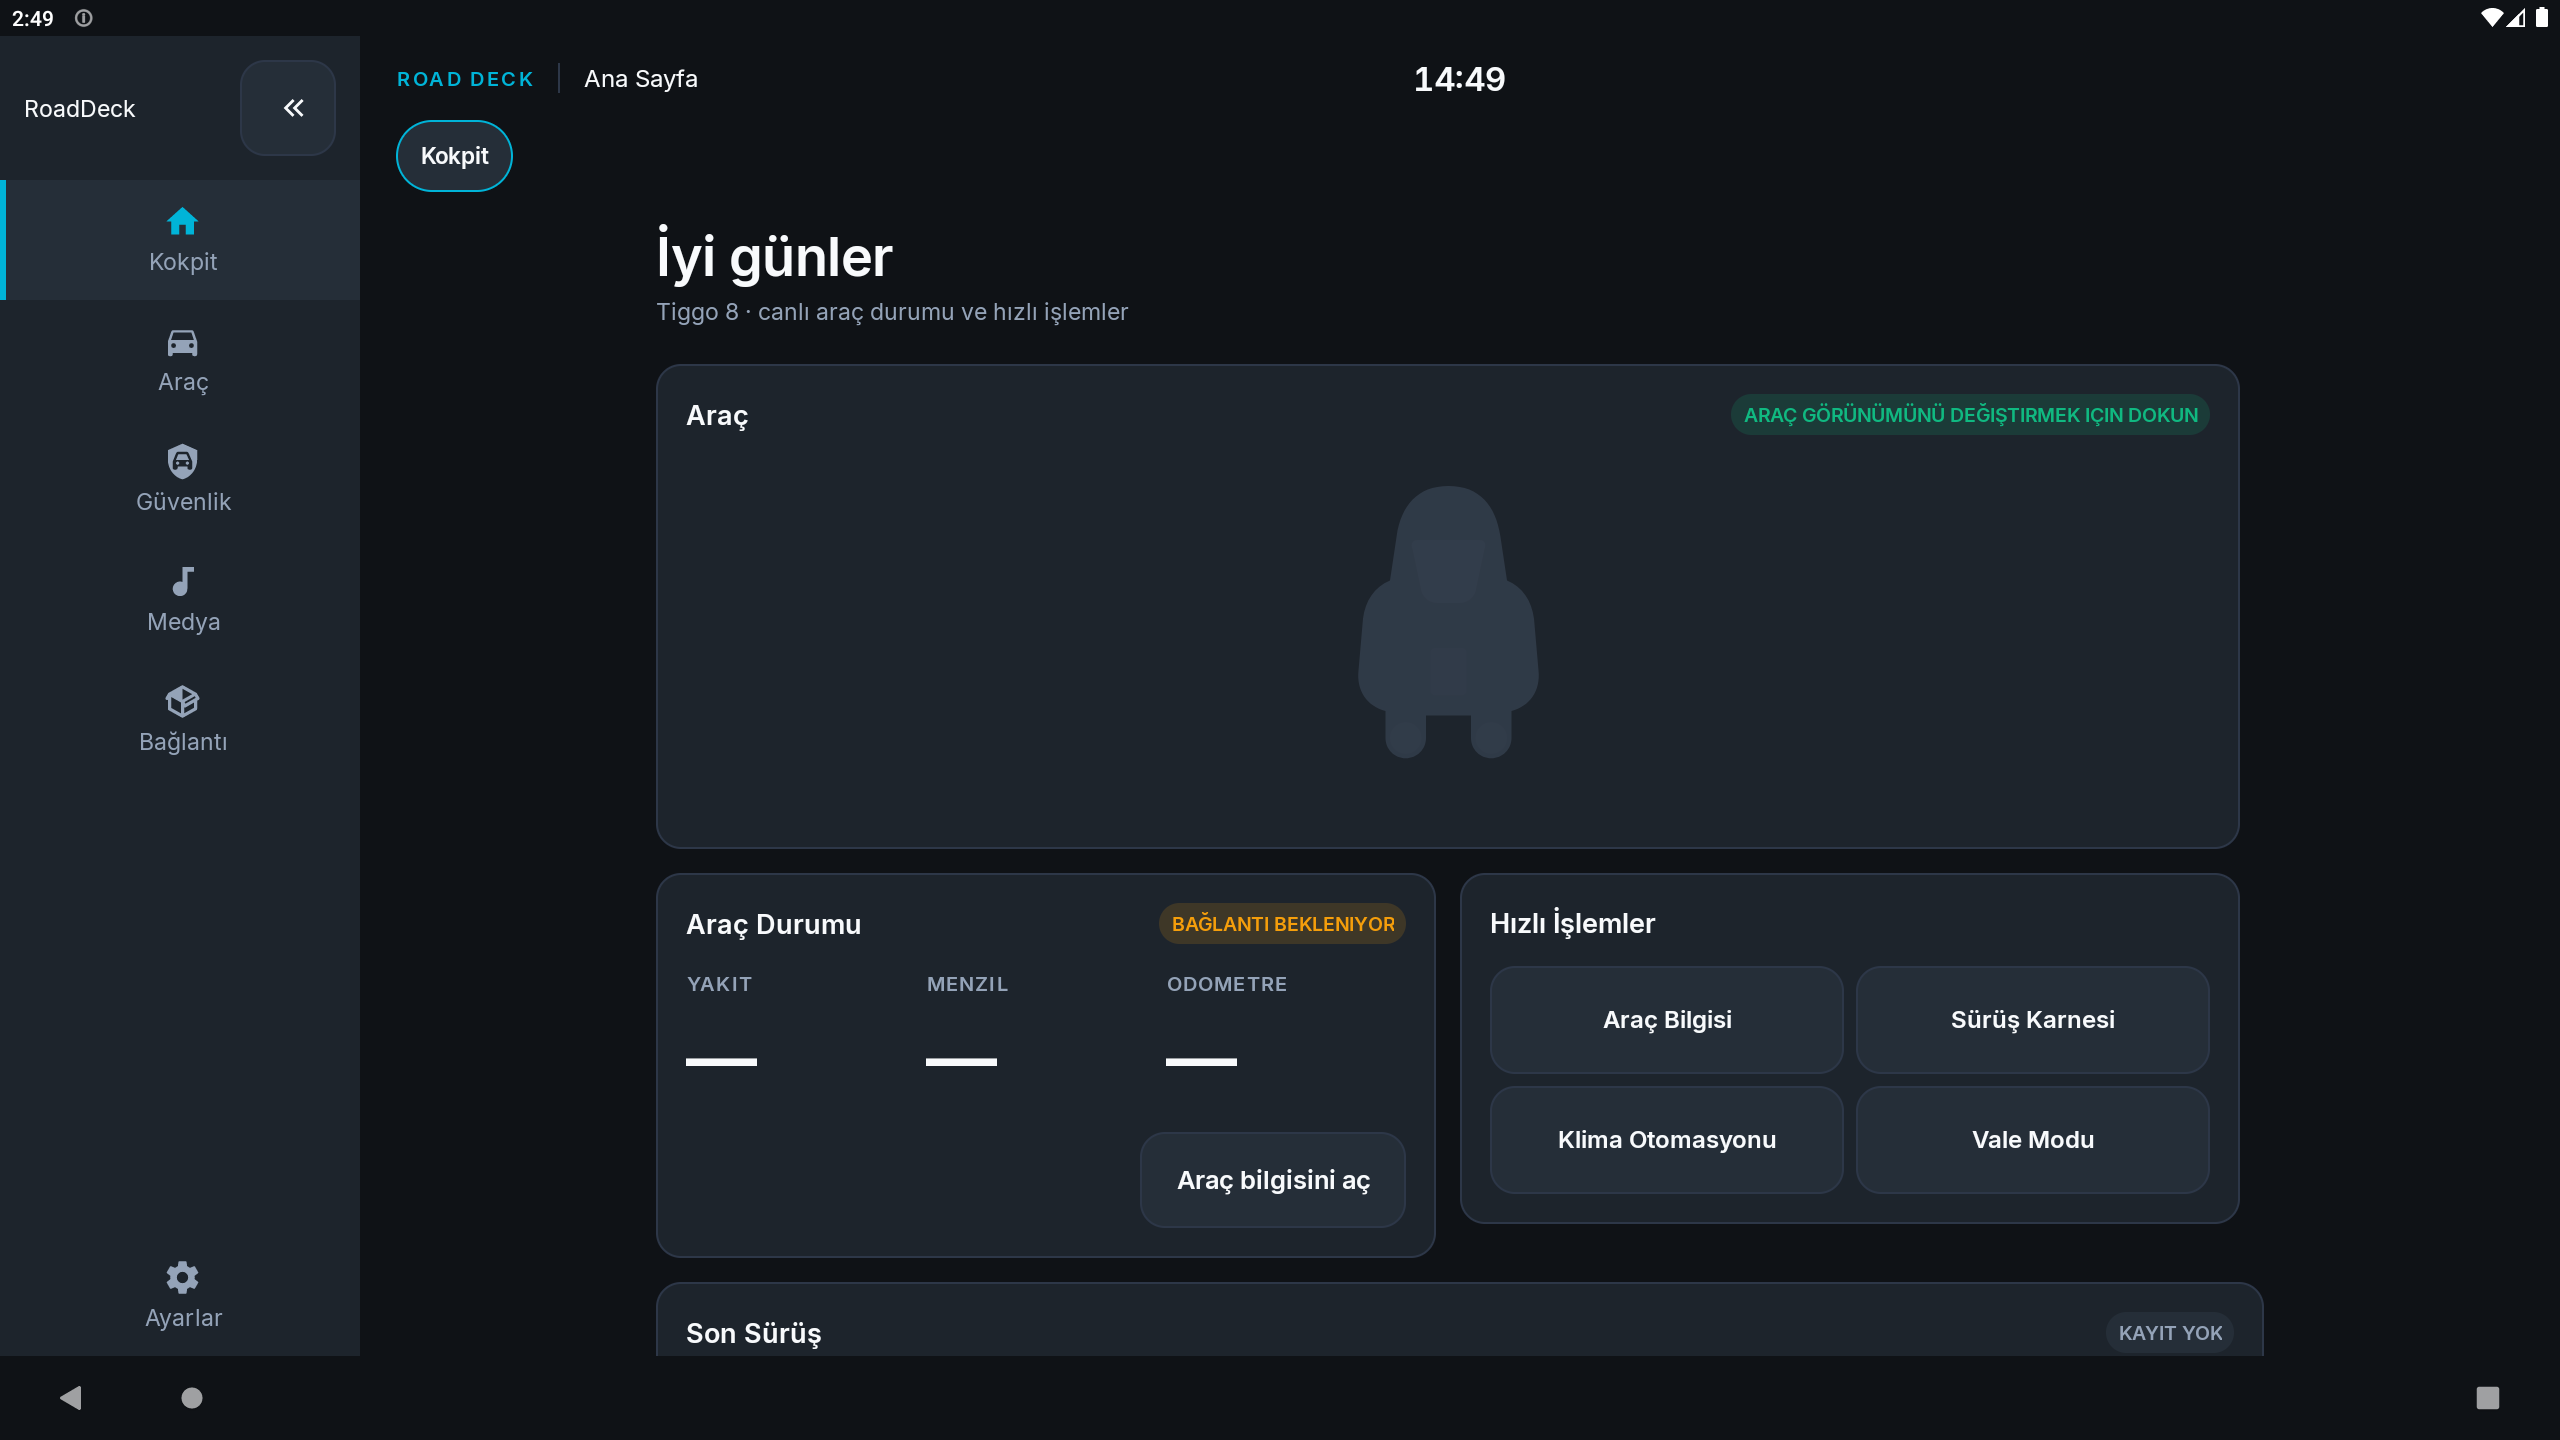
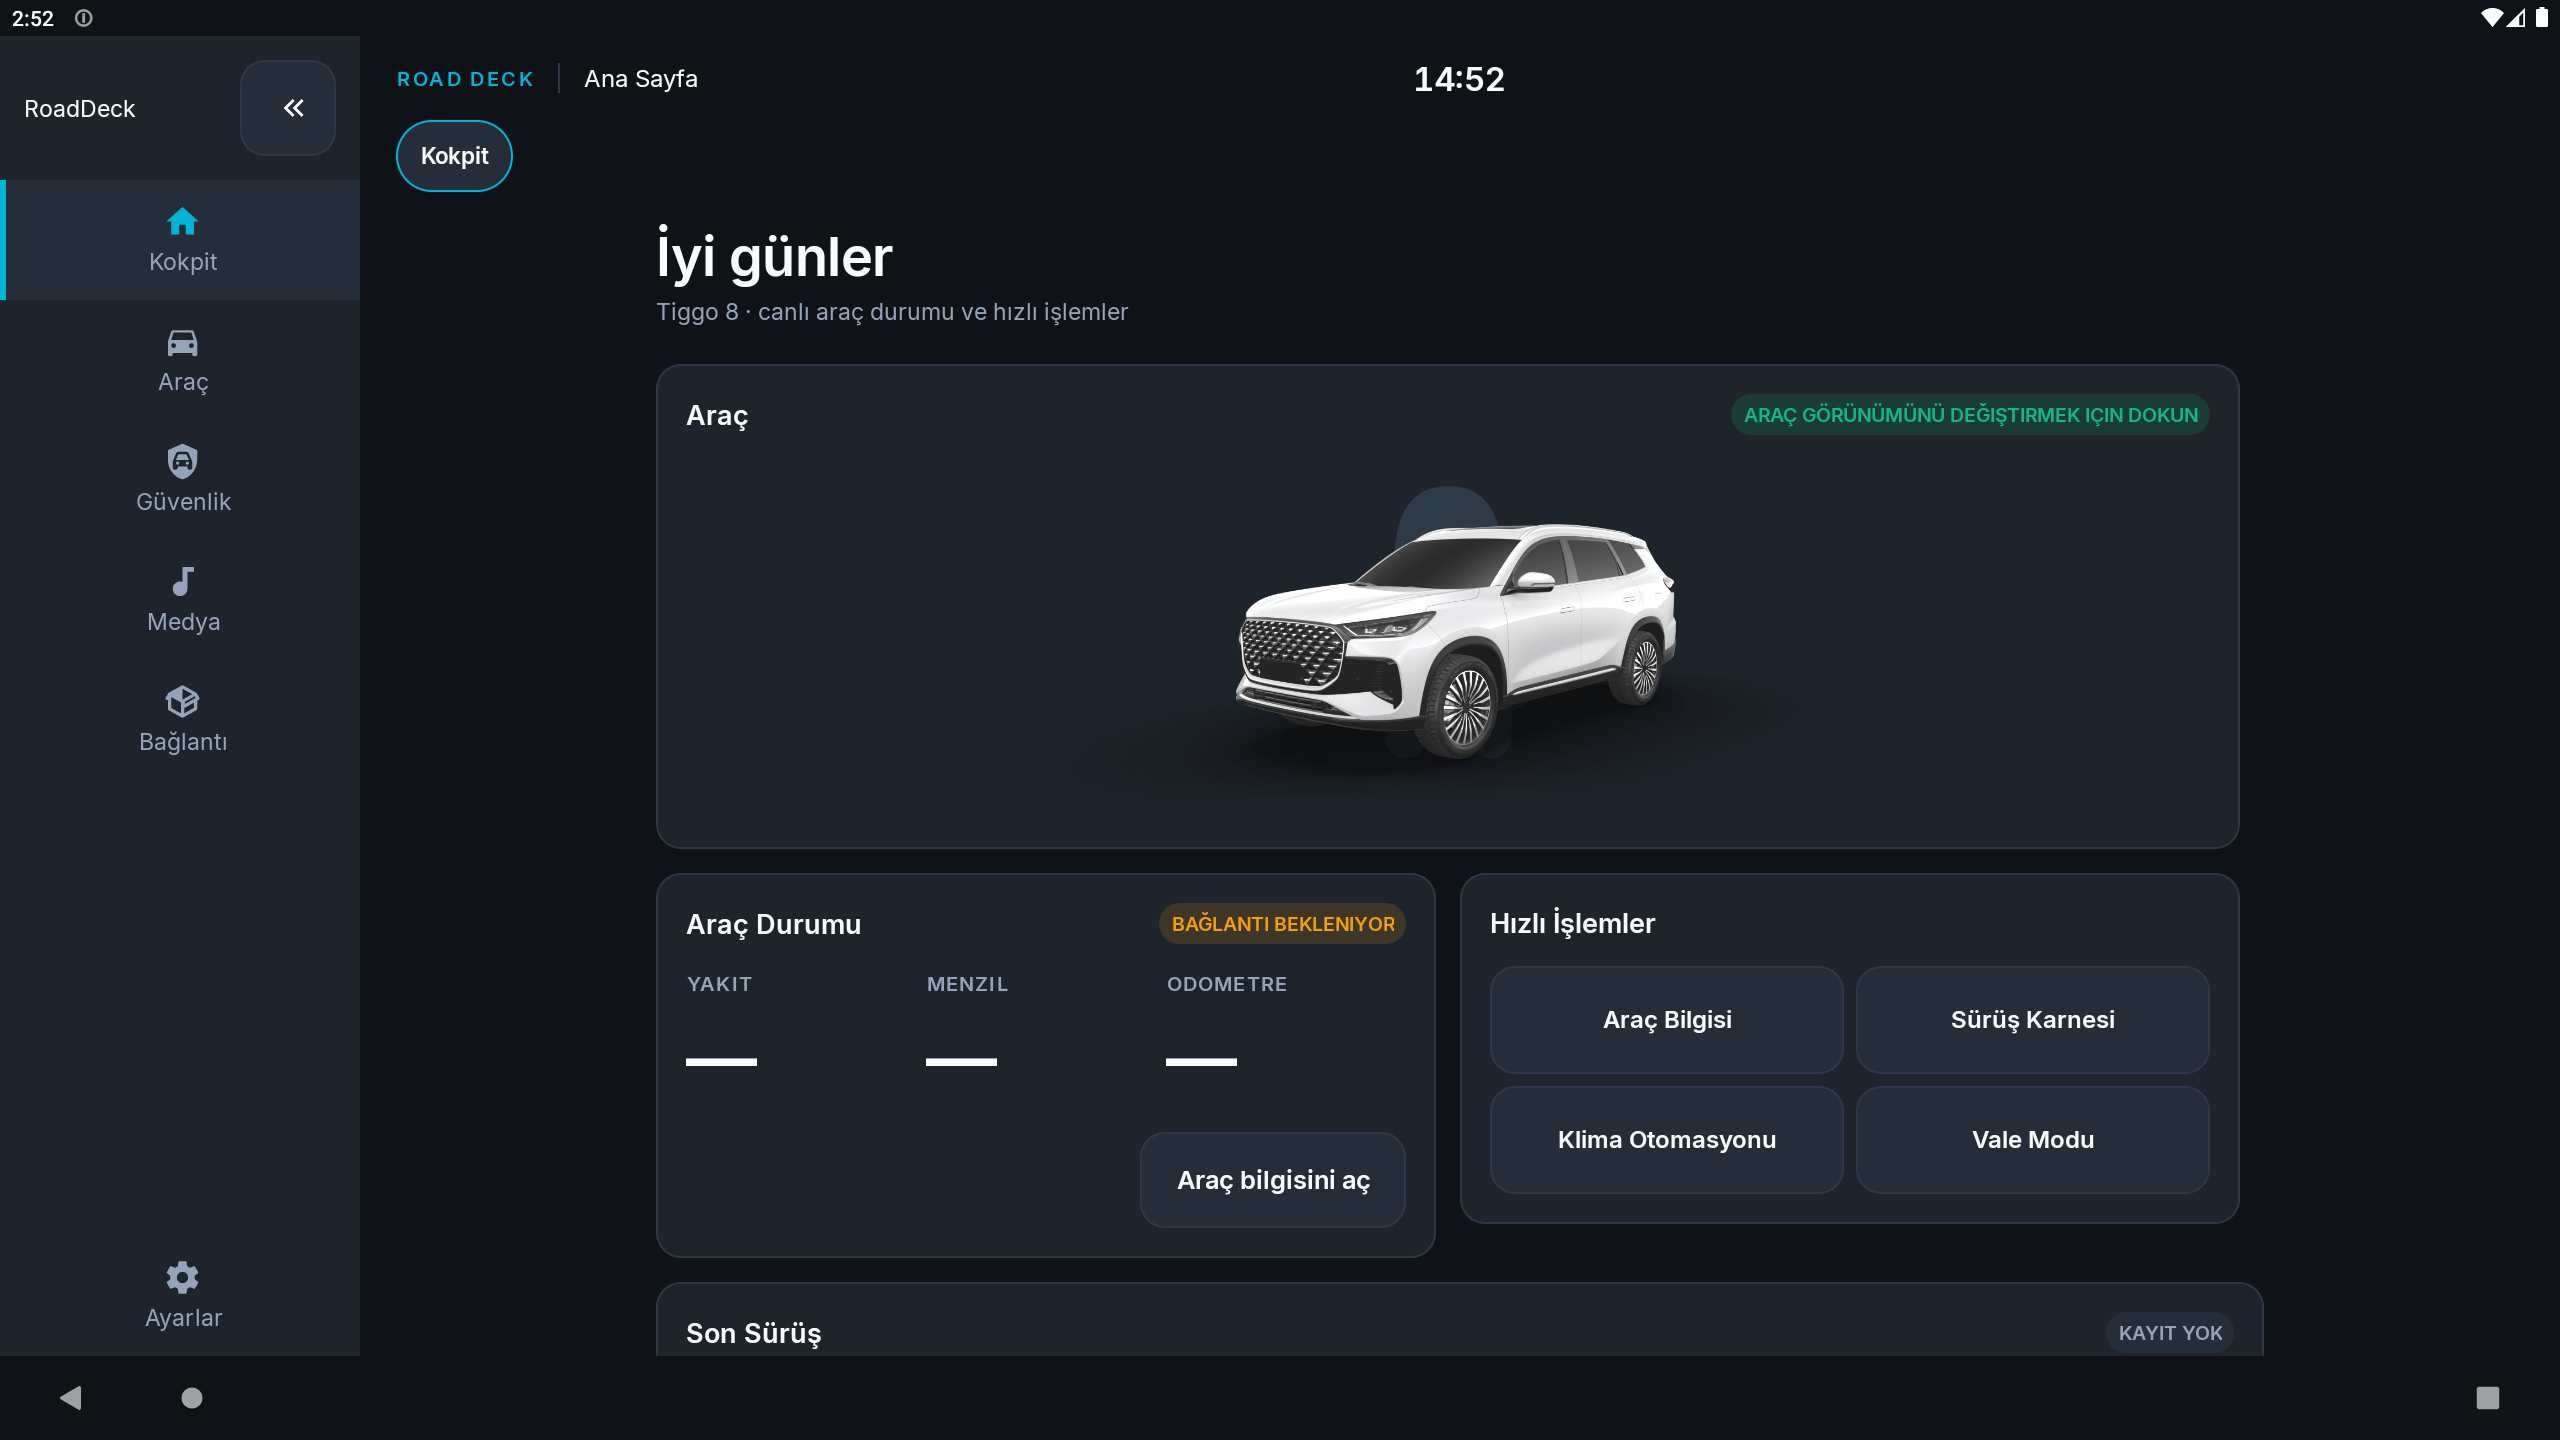
feat: T18FL4 materialvehicle 3D arac gorseli Kokpit'te
- Emulatora com.desaysv.materialvehicle ve t18fl4 APK kuruldu
- Resolver t18fl4/t28 paketlerini car_model_face1_0 ile kullaniyor
- Generic materialvehicle img_theme_* adaylari eklendi
- Home hero kartta OEM 3D arac gorseli; emulator dogrulandi

Changed region(s): [[0.4688, 0.3438, 0.6562, 0.5312], [0.5625, 0.0312, 0.5938, 0.0625]]

diff --git a/app/src/main/java/com/mapcontrol/vehicle/material/MaterialVehiclePackageResolver.java b/app/src/main/java/com/mapcontrol/vehicle/material/MaterialVehiclePackageResolver.java
@@ -74,6 +74,16 @@ final class MaterialVehiclePackageResolver {
             Log.w(TAG, "EOL eşleşmedi, modelCode=" + eol.getModelCode());
         }
 
+        if (isPackageInstalled(context, "com.desaysv.materialvehicle.t18fl4")) {
+            Log.i(TAG, "Yedek paket: com.desaysv.materialvehicle.t18fl4");
+            return new Resolution("com.desaysv.materialvehicle.t18fl4",
+                    "car_model_face1_0", "T18FL4");
+        }
+        if (isPackageInstalled(context, "com.desaysv.materialvehicle.t28")) {
+            Log.i(TAG, "Yedek paket: com.desaysv.materialvehicle.t28");
+            return new Resolution("com.desaysv.materialvehicle.t28",
+                    "car_model_face1_0", "T28");
+        }
         if (isPackageInstalled(context, "com.desaysv.materialvehicle")) {
             Log.i(TAG, "Yedek paket: com.desaysv.materialvehicle");
             return new Resolution("com.desaysv.materialvehicle", drawableBase, "GENERIC");

diff --git a/app/src/main/java/com/mapcontrol/vehicle/material/MaterialVehicleResources.java b/app/src/main/java/com/mapcontrol/vehicle/material/MaterialVehicleResources.java
@@ -160,7 +160,14 @@ public final class MaterialVehicleResources {
         return Arrays.asList(
                 CAR_MODEL_BASE,
                 CAR_MODEL_BASE + "_face1",
-                CAR_MODEL_BASE + "_face2");
+                CAR_MODEL_BASE + "_face2",
+                "img_theme_classic_car",
+                "img_theme_simplicity_car",
+                "img_theme_classic_phev_car",
+                "img_theme_simplicity_phev_car",
+                "car_model_face1_0",
+                "car_model_face1_15",
+                "car_model_face1_30");
     }
 
     @Nullable

diff --git a/app/src/main/java/com/mapcontrol/ui/builder/HomeTabBuilder.java b/app/src/main/java/com/mapcontrol/ui/builder/HomeTabBuilder.java
@@ -163,6 +163,7 @@ public class HomeTabBuilder implements VehicleMetricsRepository.Listener {
         vehicleView = new VehicleModelHostView(context);
         vehicleView.setGlowVisible(false);
         vehicleView.setContentDescription(context.getString(R.string.ck_home_vehicle_visual_hint));
+        vehicleView.onHostStart();
         visualHost.addView(vehicleView, new android.widget.FrameLayout.LayoutParams(
                 android.widget.FrameLayout.LayoutParams.MATCH_PARENT,
                 android.widget.FrameLayout.LayoutParams.MATCH_PARENT));
